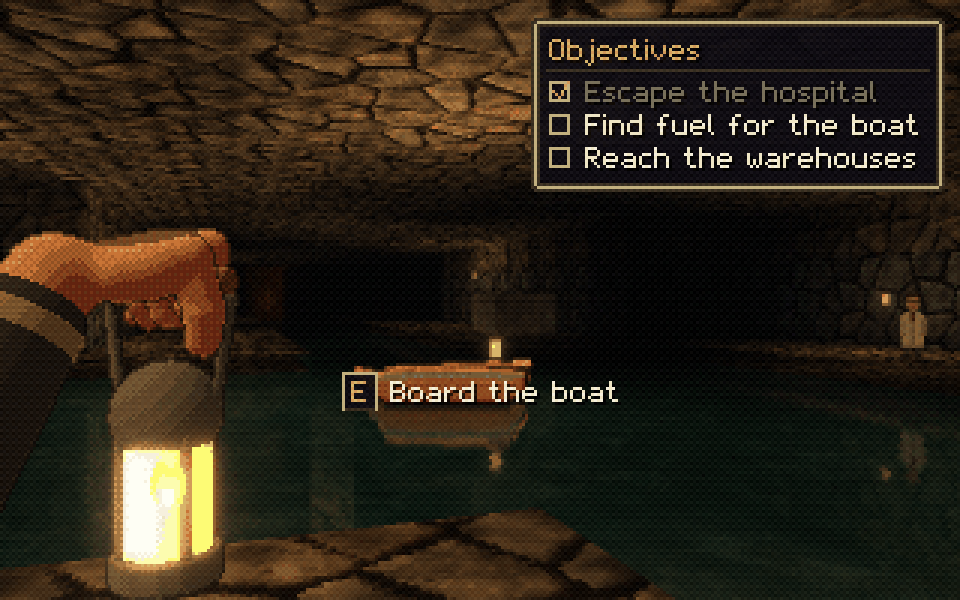
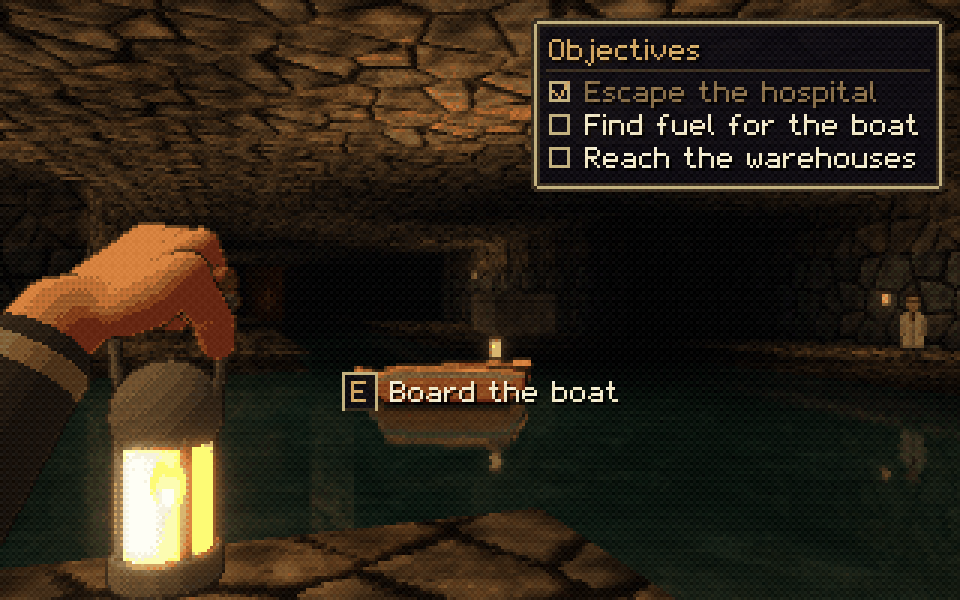
Straighten the tool wrists, turn the heads, lift the lantern hand
From the user's notes on the fourth round (the flashlight is right as
it is):

- The axe, crowbar and torch fists turn on the haft so the wrist runs
  straight down from the fist instead of cocking back toward seven
  o'clock: the haft stands at an angle to the forearm, as in the photo
  of the grip, rather than in line with it.
- The fingers close round only so far that just their tips show past
  the haft's edge (held._fist's curl).
- The axe head and the crowbar's claw are turned in the hand toward
  eleven o'clock, so the blade and the claw point away from the eye, a
  little in (held._turned).
- The lantern hand is turned up on its handle, the back of the hand
  held up instead of drooping.

diff --git a/scripts/held.py b/scripts/held.py
@@ -94,8 +94,9 @@ def _fist(m, c, axis, out, right=True, r=0.015, beta=15.0, curl=0.85, thumb=(-48
 
     In the handle's frame - x the way the back of the hand faces, y to the front of the fist where the
     knuckles are, z along the handle - each finger runs from its knuckle round the front and the far
-    side, bone by bone at its true length, its tip coming back round toward the eye; the thumb lies
-    across the near side at the head end of the fist, its last joint running on past the handle's edge.
+    side, bone by bone at its true length, its tip coming back round toward the eye (`curl` is how far
+    its last two bones go round: less leaves only the fingertips showing past the handle's edge); the
+    thumb lies across the near side at the head end of the fist, its last joint running on past the edge.
     `thumb` is where its root sits round the handle (degrees from the back of the hand), how far its
     last joint bends round, and how far its tip climbs toward the head. A thin handle lies in the
     hollow of the fist against the palm, the thumb over the curled fingers rather than hugging it. The
@@ -162,6 +163,14 @@ def _fist(m, c, axis, out, right=True, r=0.015, beta=15.0, curl=0.85, thumb=(-48
     m.add(S.sd_round_cone, P(j1), P(j2), 0.0128, 0.0118, **digit)
     m.add(S.sd_round_cone, P(j2), P(j3), 0.0118, 0.0102, **digit)
     return P(wrist - hy * 0.006)
+
+
+def _turned(F, spin):
+    """An item head's frame F turned `spin` degrees in the hand, round the haft: its x (across the view)
+    toward its y (away from the eye)."""
+    s = math.radians(spin)
+    F.r, F.u = math.cos(s) * F.r + math.sin(s) * F.u, math.cos(s) * F.u - math.sin(s) * F.r
+    return F
 
 
 def _flame(rgba, em, p, ox, oy, height):
@@ -257,30 +266,32 @@ def vm_flashlight():
 @_kept
 def vm_axe():
     """A felling axe held up in the right fist like a hammer, the haft leaning back over the shoulder,
-    the blade toward the middle of the view; the thumb over the haft, the back of the hand outward."""
+    the blade turned in the hand to point away from the eye; the thumb over the haft, the back of the
+    hand outward, the wrist straight below and only the fingertips showing round the haft."""
     w, h = 141, 150
     m = S.Model()
     c, a, length, head = _staged((240, 180), (290, 76), 0.50, 0.45)
     m.add(S.sd_round_cone, c - a * 0.07, c + a * (length + 0.02), 0.0135, 0.0125, mat=3)              # the haft
-    F = S.Frame(head, a, up_hint=(0, 0, 1))
+    F = _turned(S.Frame(head, a, up_hint=(0, 0, 1)), 70)
     m.add(S.sd_box, F.P(0.045, 0, 0), (0.05, 0.008, 0.032), F.rot((1, 0, 0), (0, 1, 0)), round_=0.003, mat=4)  # head
     m.add(S.sd_cylinder, F.P(0, 0, -0.03), F.P(0, 0, 0.03), 0.018, round_=0.003, mat=4)              # the eye
-    _arm(m, _fist(m, c, a, _facing(a, 45), r=0.0135), S.screen_point(390, 330, 0.30, FOV))
+    _arm(m, _fist(m, c, a, _facing(a, 22), r=0.0135, curl=0.45), S.screen_point(390, 330, 0.30, FOV))
     return _render(m, w, h, 'right', [COAT, CUFF, SKIN, WOOD, IRON])
 
 
 @_kept
 def vm_crowbar():
-    """A crowbar held up in the right fist like a hammer, leaning back, its claw hooked over at the top."""
+    """A crowbar held up in the right fist like a hammer, leaning back, its claw hooked over at the top
+    and turned in the hand to hook away from the eye."""
     w, h = 141, 150
     m = S.Model()
     c, a, length, head = _staged((242, 180), (288, 80), 0.50, 0.45)
     m.add(S.sd_round_cone, c - a * 0.07, head, 0.0095, 0.0095, mat=3)                                   # the bar
-    F = S.Frame(head, a, up_hint=(0, 0, 1))
+    F = _turned(S.Frame(head, a, up_hint=(0, 0, 1)), 70)
     claw = [F.P(0, 0, 0), F.P(0.012, 0, 0.03), F.P(0.04, 0, 0.044), F.P(0.07, 0, 0.034), F.P(0.086, 0, 0.022)]
     for p0, p1 in zip(claw, claw[1:]):
         m.add(S.sd_round_cone, p0, p1, 0.0095, 0.0088, mat=3)
-    _arm(m, _fist(m, c, a, _facing(a, 45), r=0.0095), S.screen_point(390, 330, 0.30, FOV))
+    _arm(m, _fist(m, c, a, _facing(a, 22), r=0.0095, curl=0.45), S.screen_point(390, 330, 0.30, FOV))
     return _render(m, w, h, 'right', [COAT, CUFF, SKIN, REDBAR])
 
 
@@ -293,7 +304,7 @@ def vm_torch():
     c, a, length, head = _staged((80, 180), (38, 90), 0.50, 0.45)
     m.add(S.sd_round_cone, c - a * 0.06, c + a * (length - 0.04), 0.0105, 0.0135, mat=3)              # the haft
     m.add(S.sd_round_cone, c + a * (length - 0.05), c + a * (length + 0.01), 0.022, 0.02, mat=4)      # the rags
-    wrist = _fist(m, c, a, _facing(a, 45, base=(-1.0, 0.0, 0.0)), right=False, r=0.0105)
+    wrist = _fist(m, c, a, _facing(a, 22, base=(-1.0, 0.0, 0.0)), right=False, r=0.0105, curl=0.45)
     _arm(m, wrist, S.screen_point(-70, 330, 0.30, FOV))
     rgba, em = _render(m, w, h, 'left', [COAT, CUFF, SKIN, WOOD, CLOTH])
     return _flame(rgba, em, c + a * (length + 0.01), *viewmodel_origin(320, 200, w, h, 'left'), 0.075)
@@ -301,8 +312,9 @@ def vm_torch():
 
 @_kept
 def vm_lantern():
-    """An oil lantern hanging by its bail from the left fist - the back of the hand on top, the fingers
-    curled under the handle, the forearm reaching in from the left - the flame in its glass."""
+    """An oil lantern hanging by its bail from the left fist - the back of the hand on top and held up,
+    not drooping, the fingers curled under the handle, the forearm reaching in from the left - the
+    flame in its glass."""
     w, h = 115, 150
     m = S.Model()
     grip = S.screen_point(56, 94, 0.47, FOV)
@@ -320,7 +332,7 @@ def vm_lantern():
     for p0, p1 in zip(bail, bail[1:]):
         m.add(S.sd_round_cone, p0, p1, 0.0028, 0.0028, mat=3)
     m.add(S.sd_cylinder, ends[0], ends[1], 0.0085, round_=0.003, mat=4)                                  # wooden handle
-    wrist = _fist(m, grip, a, _facing(a, 15, base=(0.0, -1.0, 0.0)), right=False, r=0.0085, beta=10.0)
+    wrist = _fist(m, grip, a, _facing(a, 35, base=(0.0, -1.0, 0.0)), right=False, r=0.0085, beta=10.0)
     _arm(m, wrist, S.screen_point(-120, 300, 0.26, FOV))
     rgba, em = _render(m, w, h, 'left', [COAT, CUFF, SKIN, IRON, WOOD, IRON, GLASS], glow=(6,))
     return _flame(rgba, em, body + (0, 0.012, 0), *viewmodel_origin(320, 200, w, h, 'left'), 0.03)

diff --git a/docs/ASSETS.md b/docs/ASSETS.md
@@ -848,11 +848,11 @@ Named groups placed with one line (`scripts/prefabs.py`).
 | item | status | used in | notes |
 |---|---|---|---|
 | `revolver` | good | gui_hud, rainy_street | Modelled in 3D in held.py (sculpt.py) and seen from the player's eye: the hand from the holder's side (the back of the hand, the thumb, the top of the index finger), the sleeve running off the screen. |
-| `lantern` | good | gui_lantern, woodland_night | Modelled in 3D in held.py (sculpt.py) and seen from the player's eye: hanging by its bail from a fist built bone by bone - the back of the hand on top, the fingers curled under the handle - the forearm reaching in from the left in its sleeve. |
+| `lantern` | good | gui_lantern, woodland_night | Modelled in 3D in held.py (sculpt.py) and seen from the player's eye: hanging by its bail from a fist built bone by bone - the back of the hand on top and held up, the fingers curled under the handle - the forearm reaching in from the left in its sleeve. |
 | `flashlight` | good | bunker_lab, derelict_ship, sewer_tunnels | Modelled in 3D in held.py (sculpt.py) and seen from the player's eye, posed from a reference photo: a fist built bone by bone round the barrel - the back of the hand up and out, the thumb across the top, the fingertips curled round under it - the sleeve running off the screen. |
-| `axe` | good | - | Modelled in 3D in held.py (sculpt.py) and seen from the player's eye, posed from a reference photo: held like a hammer in a fist built bone by bone - the thumb across the near side of the haft, the back of the hand outward, the fingertips coming round from the far side - the sleeve running off the screen. |
-| `crowbar` | good | - | Modelled in 3D in held.py (sculpt.py) and seen from the player's eye, posed from a reference photo: held like a hammer in a fist built bone by bone - the thumb across the near side of the bar, the back of the hand outward, the fingertips coming round from the far side - the sleeve running off the screen. |
-| `torch` | good | - | Modelled in 3D in held.py (sculpt.py) and seen from the player's eye, posed from reference photos: held like a hammer in the left fist, closed tight round a slim haft - the thumb across the near side, the back of the hand outward - the sleeve running off the screen. |
+| `axe` | good | - | Modelled in 3D in held.py (sculpt.py) and seen from the player's eye, posed from a reference photo: held like a hammer in a fist built bone by bone - the thumb across the near side of the haft, the back of the hand outward, the wrist straight below, only the fingertips showing - the blade turned in the hand to point away from the eye; the sleeve running off the screen. |
+| `crowbar` | good | - | Modelled in 3D in held.py (sculpt.py) and seen from the player's eye, posed from a reference photo: held like a hammer in a fist built bone by bone - the thumb across the near side of the bar, the back of the hand outward, the wrist straight below, only the fingertips showing - the claw turned in the hand to hook away from the eye; the sleeve running off the screen. |
+| `torch` | good | - | Modelled in 3D in held.py (sculpt.py) and seen from the player's eye, posed from reference photos: held like a hammer in the left fist, closed tight round a slim haft - the thumb across the near side, the back of the hand outward, the wrist straight below, only the fingertips showing - the sleeve running off the screen. |
 | `pistol` | good | doomed | Drawn in doomed.py: held out in the middle of the view: a fist round the grip, the slide from behind with its sights; `fire` adds a muzzle flash. |
 | `shotgun` | good | doomed | Drawn in doomed.py: a pump shotgun in the middle: the receiver, the barrel running away to its bead, a hand on the wooden pump; `fire` adds a flash. |
 
